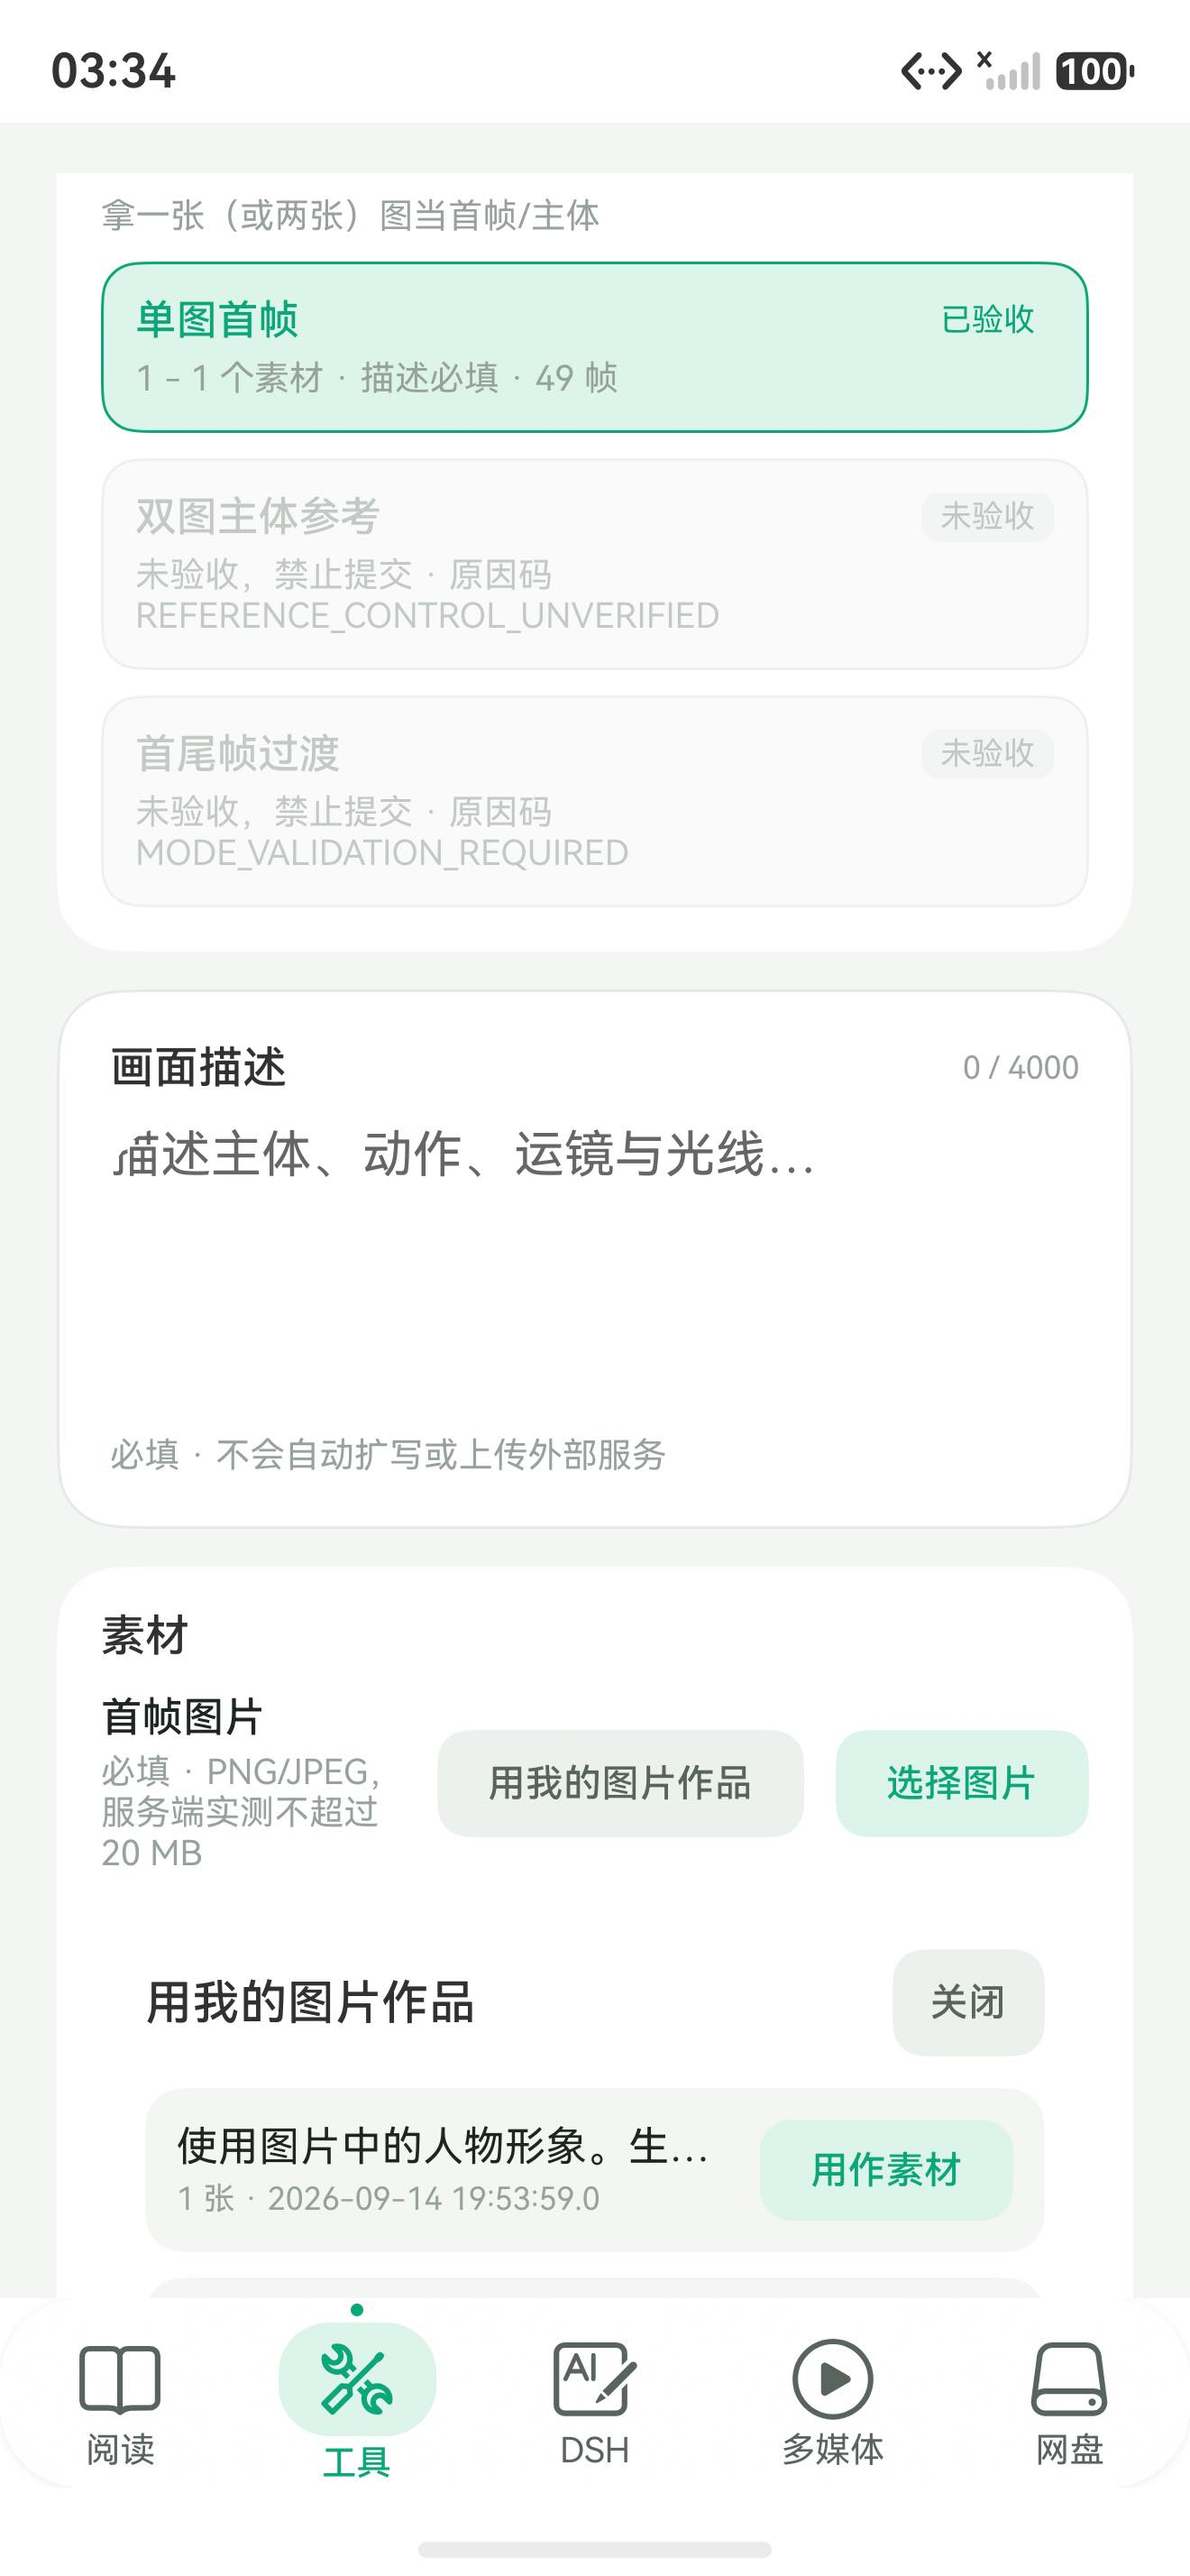
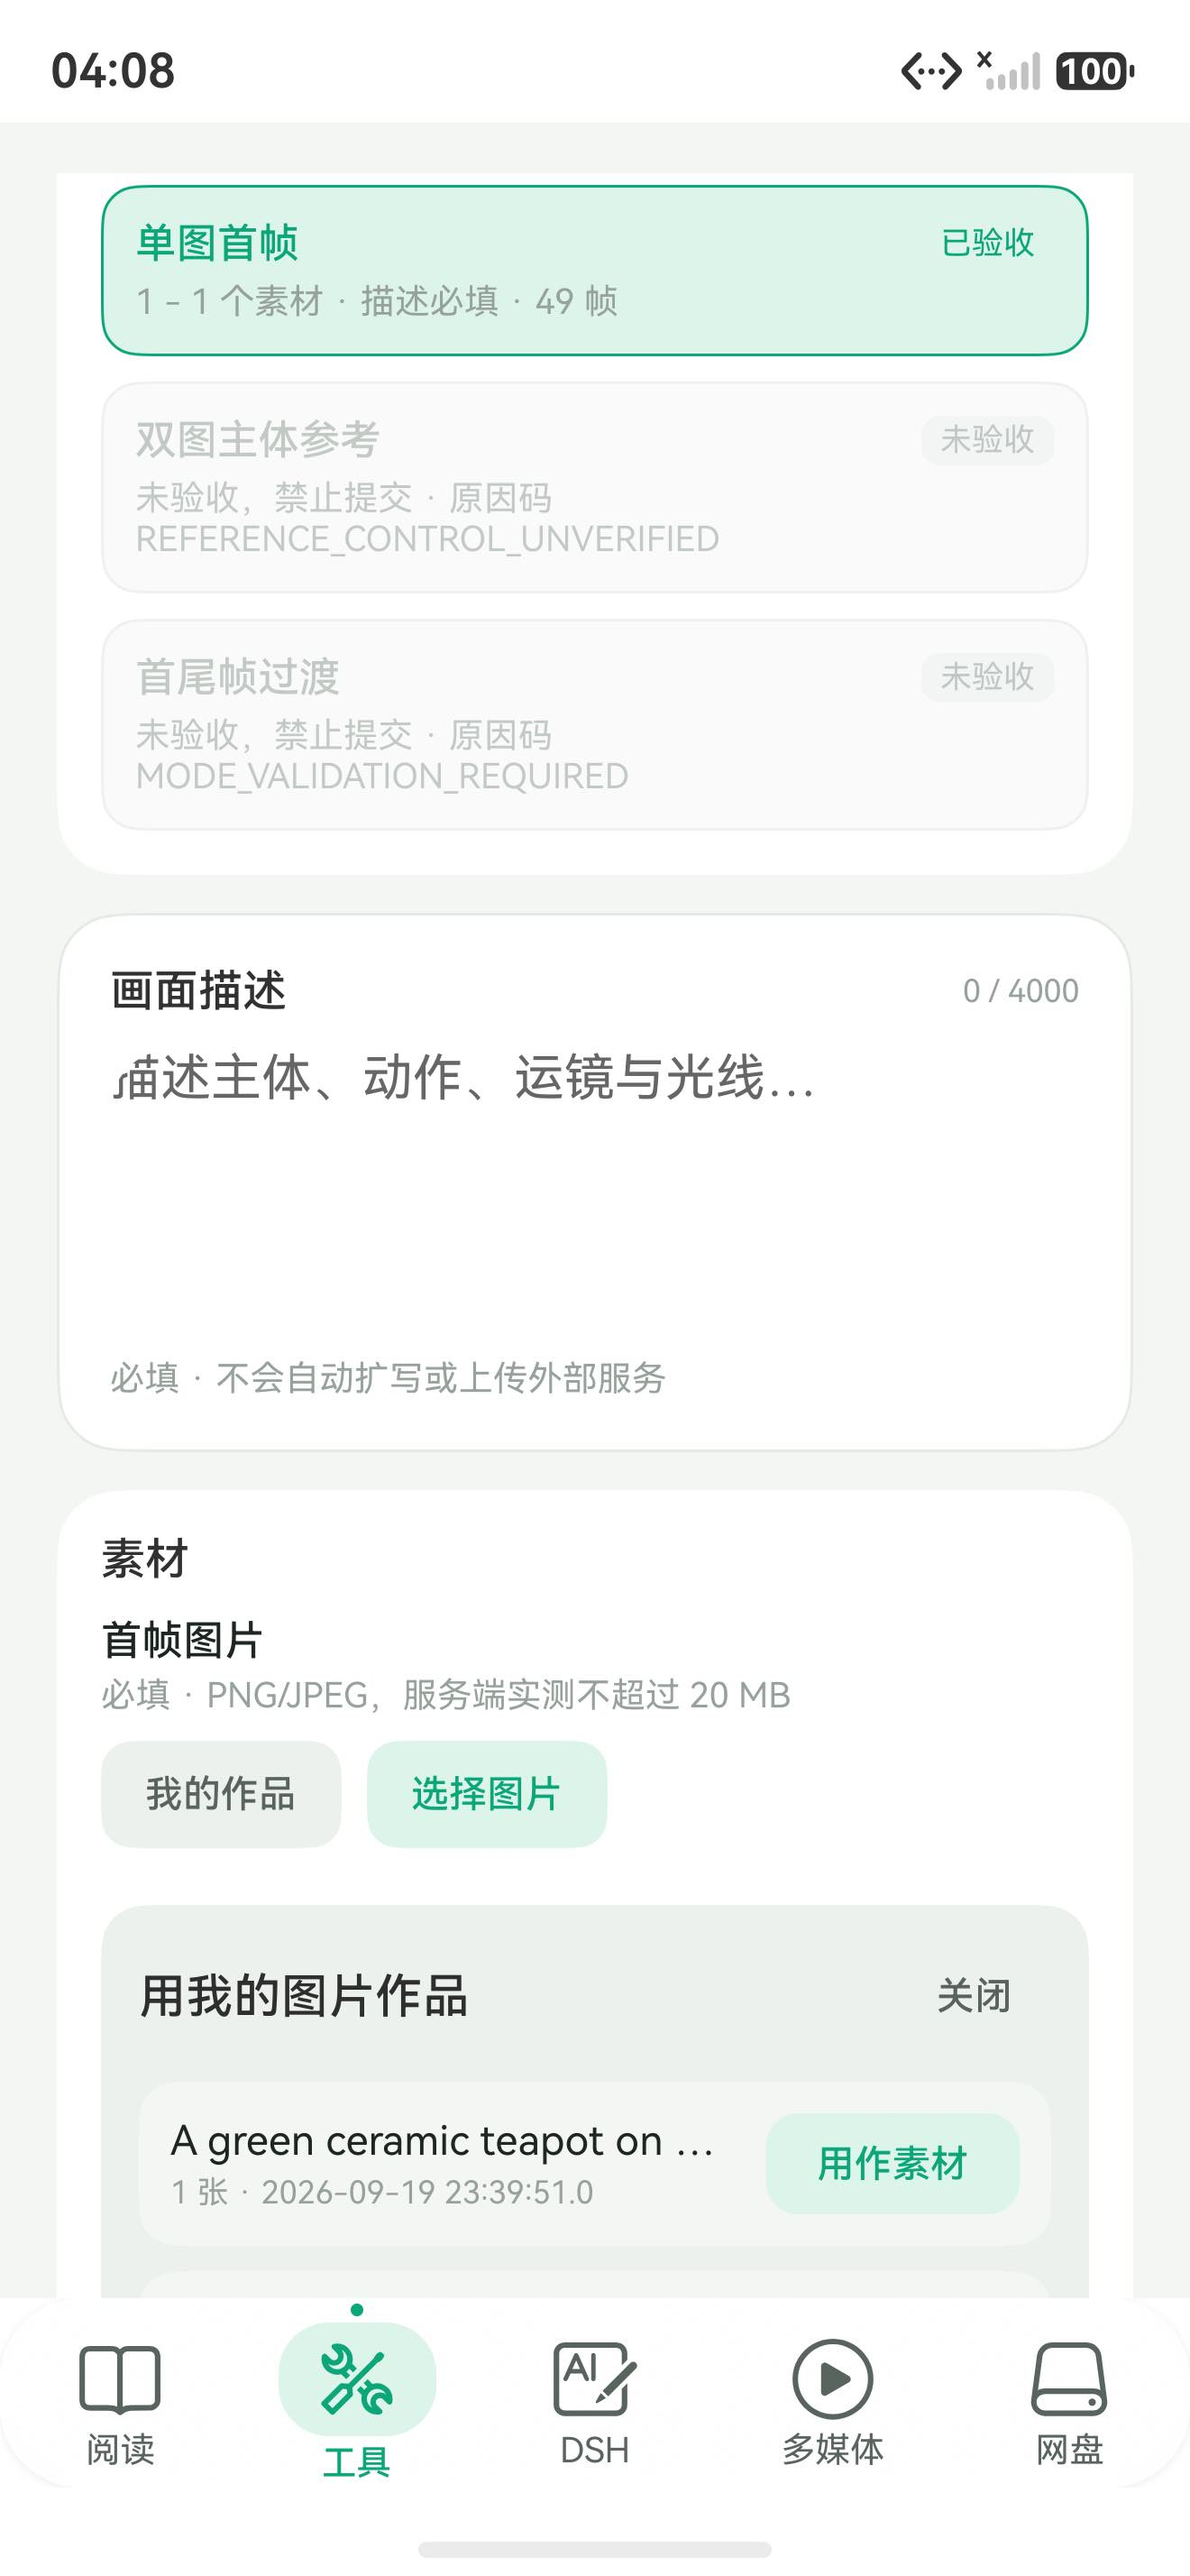
fix(video): stop the material row from squeezing its label into a column
Adding the "use my image work" button left three buttons in one row and
crushed the slot label to about 90vp, so the role and size text wrapped
one character per line. Put the label on its own full-width row and move
the actions to a wrapping Flex row below it, shorten the new button to
"my works", and render the picker as a compact inline block right under
the slot so it is visible as soon as it opens.

Verified on the device: the panel lists the account's works, choosing one
fills the slot (my works / choose again / clear) and the App submits a
real job for the account. Also record the SDK limits found on the way:
bindSheet and bindPopup do not render in this SDK inside the outer Scroll,
and LengthMetrics is type-only here, so the Flex spacing uses margins.

diff --git a/docs/verification/2026-09-14-video-generation/p1-yuyutian-verification/README.md b/docs/verification/2026-09-14-video-generation/p1-yuyutian-verification/README.md
@@ -72,10 +72,12 @@ Error 1010 拦掉了 Python 的 UA，App 走系统 HTTP 栈不受影响）。完
 而 `showAssetsCreationDialog` 同样标了该权限，所以第三方应用在本机 SDK 上无法写媒体库。
 图片工具原有的「保存图片」（DocumentViewPicker 存成文件）仍然可用，只是相册选择器看不到 Downloads 里的文件。
 
-虚拟机实测：`02-tool-page-as-yuyutian.jpeg` 之后的 `imagework-entry.jpeg` 能看到新入口与素材门禁；
-`app/build/acceptance/video-generation/imagework-sheet-final.jpeg` 与布局 dump 显示面板能打开、
-列出该账号的作品并有「用作素材」按钮。面板内的选择点击在模拟器上没走完（输入注入时好时坏），
-所以"生图 → 当首帧 → 出片"这条链改用同一批接口在 yuyutian 会话下验完：
+虚拟机实测（全部在 App 界面上点完）：点「我的作品」弹出作品面板 → 选一张 →「用作素材」→ 填描述 →
+「生成视频」，后端随即出现属于 yuyutian 的新任务。证据：`05-imagework-panel.jpeg`（面板列出该账号作品）、
+`07-slot-filled.jpeg`（槽位已填：我的作品 / 重新选择 / 清除，提示"已用图片作品作为素材"）、
+`08-app-submitted.jpeg`。本次 App 提交的任务是 `db51f053-0ef7-4deb-93ca-c2369aa7a3ec`。
+
+同一批接口在 yuyutian 会话下的完整链路（含计时与 Range）也已单独验过：
 
 | 步骤 | 结果 |
 |---|---|
@@ -133,10 +135,21 @@ P0 当时的边缘亮度判据（0.4998–0.5304）是**因为那张素材恰好
 
 无论选哪种，修完都应重跑一次 P0 窗口（暖色 + 冷色两张素材）再给首帧模式下定论。
 
-## 八、这次验证的边界（说清楚，别当成已验证）
+## 八、界面回归：素材行"窜行"已修
 
-1. **App 控件级的"选作品 → 用作素材 → 提交"没在模拟器里走完**（输入注入时好时坏，见上）；
-   但面板能打开、能列出作品（有 dump 与截图），背后的调用序列已在同一账号下逐条验过。
+加了「我的作品」按钮后，素材行把角色与规格文字挤成了一列竖排（`Text` 被压到 ~90px 宽）。已改为
+**标签独占一行、按钮另起一行**（`Flex` 换行 + 按钮外边距），并把作品面板做成贴着按钮的紧凑内联块
+（高度 150），点完即可见。设备上复验：`07-slot-filled.jpeg` 里三按钮（我的作品 / 重新选择 / 清除）
+与说明文字都不再换行挤压。
+
+顺带记两个 SDK 结论，避免再走弯路：`bindSheet` 与 `bindPopup` 在本机 SDK + 外层 `Scroll` 结构下都不渲染
+（`SaveButton` 安全控件也不存在），所以面板只能用内联块；`LengthMetrics` 在该 SDK 只能当类型用，
+Flex 间距改用按钮外边距实现。
+
+## 九、这次验证的边界（说清楚，别当成已验证）
+
+1. **App 控件级的"选作品 → 用作素材 → 提交"已在模拟器里走通**（见七、八两节与截图）；
+   剩下的只是这一条 App 提交任务的最终状态与播放复看。
 2. **不是 App 控件级的提交验证**：登录、看目录、素材门禁是 App 界面上跑的；提交/轮询/播放/取消是接口层跑的。
    App 里"点生成 → 看到排队 → 点在线播放"这条界面路径仍未在模拟器里实跑，卡在图库空这一条。
 2. 其余四个模式仍未验收，目录里如实标注（原因码见截图）。
